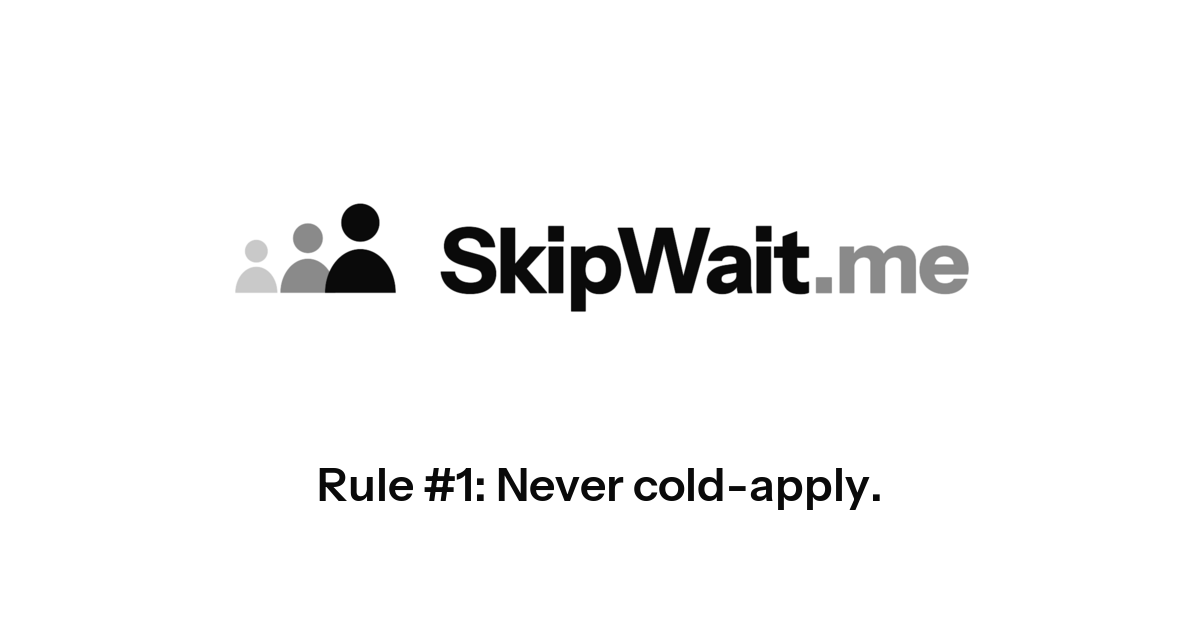
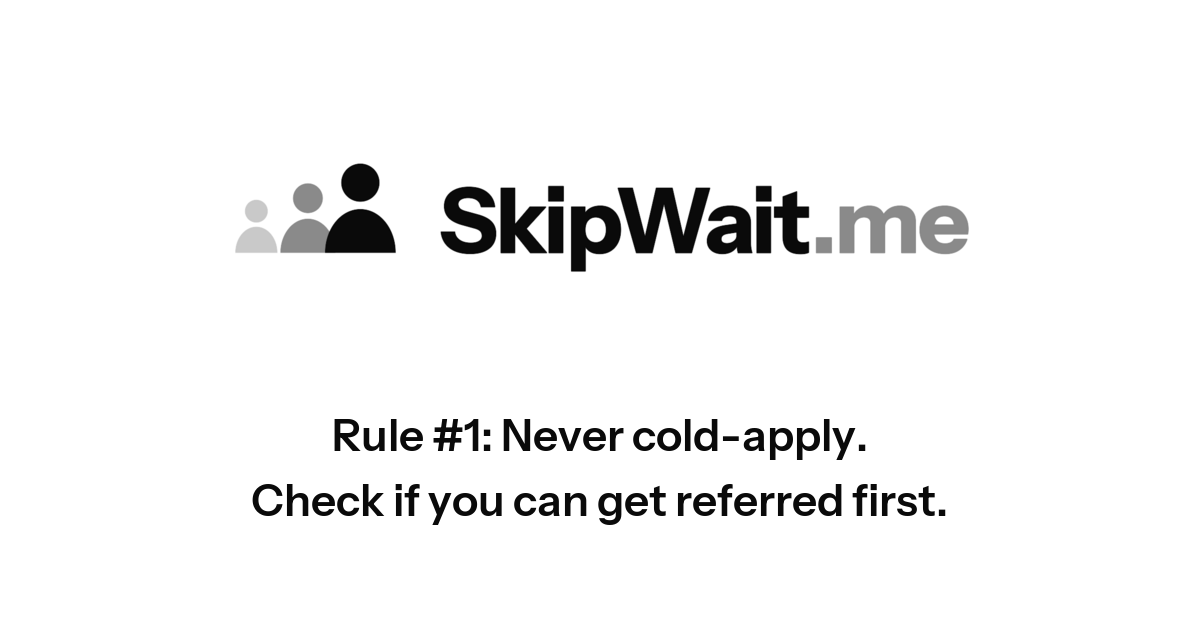
OG: use full frozen line (phonemsg-01M5SHA6SYKAB2DQQXEN39FPCK)
'Rule #1: Never cold-apply. Check if you can get referred first.' - two
lines for readability; alt text matches. Replaces the shortened version.

Changed region(s): [[0.37, 0.2714, 0.8325, 0.5127], [0.185, 0.6635, 0.8017, 0.8444], [0.185, 0.2413, 0.3392, 0.4825]]

diff --git a/client/index.html b/client/index.html
@@ -23,7 +23,7 @@
     <meta property="og:description" content="Paste a role link; verified employees decide privately whether to refer you. 3 free credits every month; extra asks use credits. Referrers are never paid." />
     <meta property="og:url" content="https://skipwait.me/" />
     <meta property="og:image" content="https://skipwait.me/brand/og.png" />
-    <meta property="og:image:alt" content="SkipWait.me - Rule #1: Never cold-apply." />
+    <meta property="og:image:alt" content="SkipWait.me - Rule #1: Never cold-apply. Check if you can get referred first." />
     <meta name="twitter:card" content="summary_large_image" />
     <meta name="twitter:title" content="Private job referrals from verified employees — skipwait.me" />
     <meta name="twitter:description" content="Paste a role link; verified employees decide privately whether to refer you. 3 free credits every month; extra asks use credits. Referrers are never paid." />
